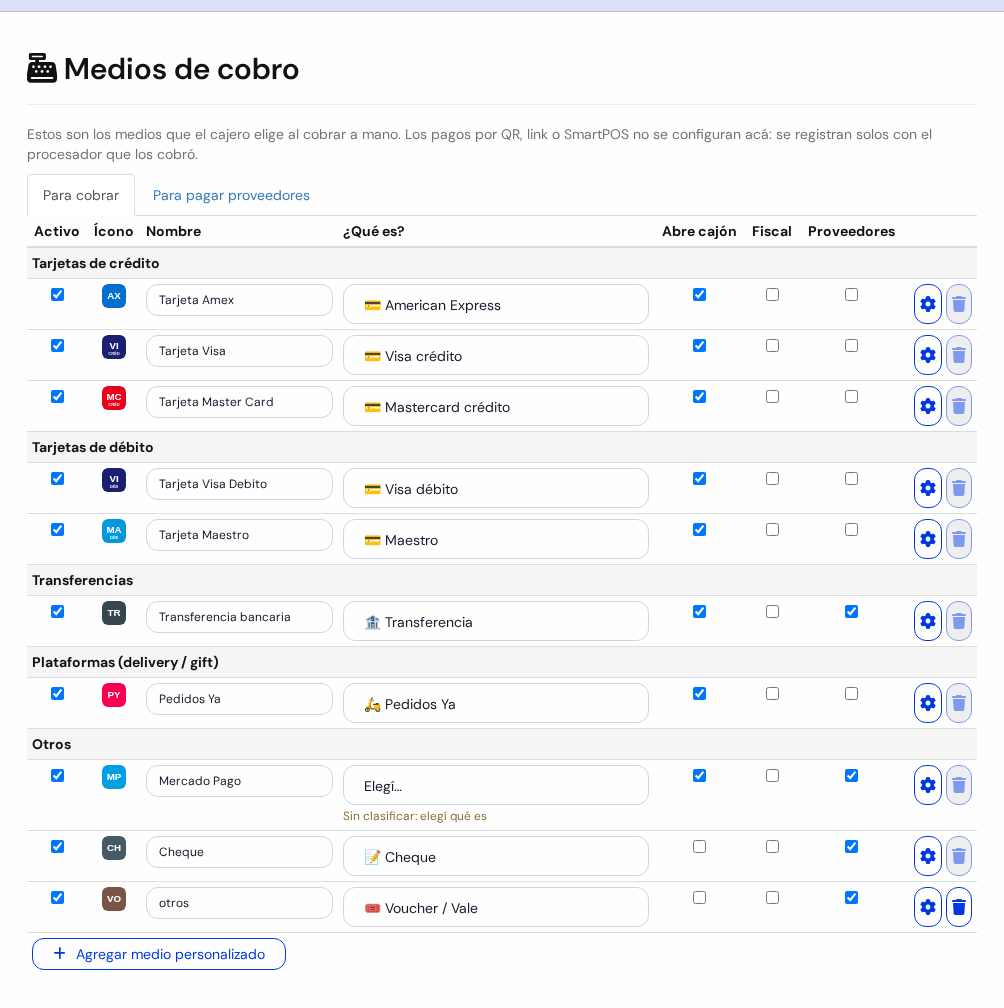
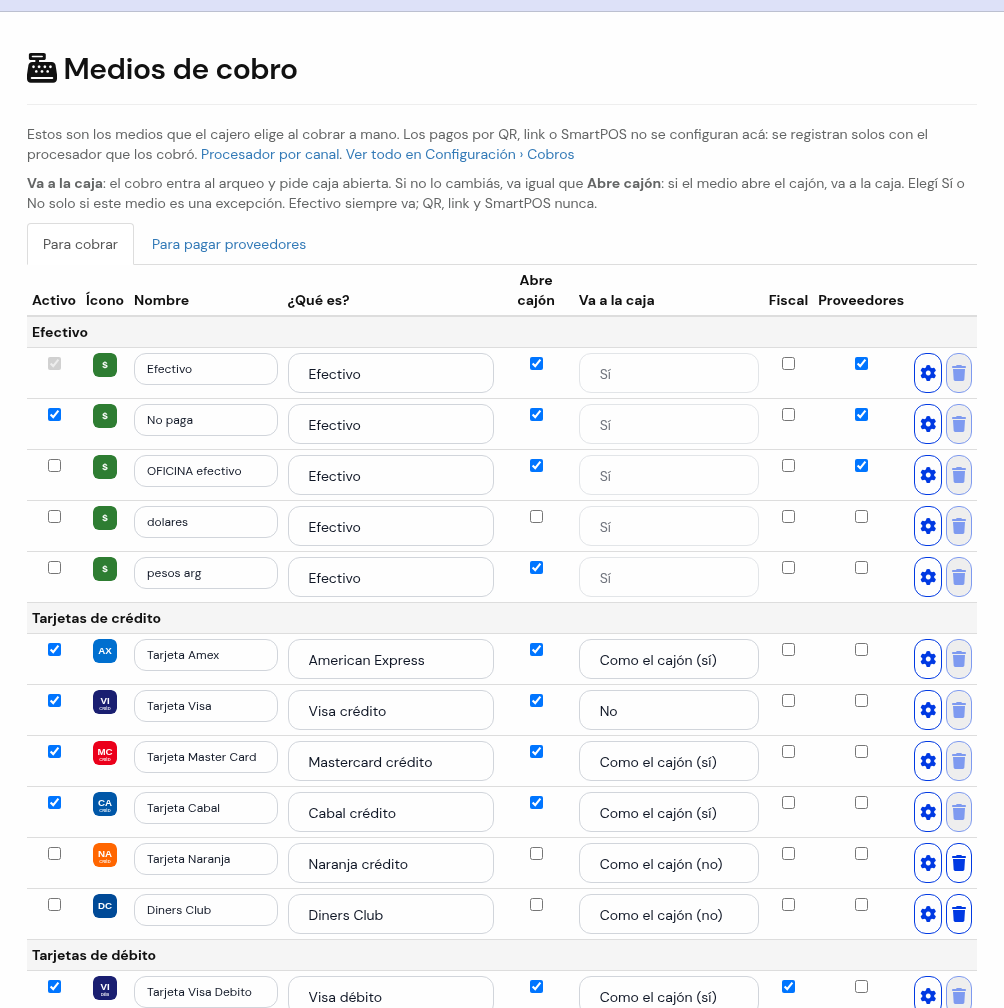
docs(manual): "Va a la caja" sigue a "Abre cajón" y el cajón se abre solo en el Salón (nuevo) (#237)
- Medios de cobro: la columna "Va a la caja" (Como el cajón / Sí / No), una
  sección nueva "Qué medios van a la caja" y dos filas en Resolución de
  Inconvenientes. Captura de la tabla actualizada y una nueva enfocada en las
  dos columnas.
- FAQ del cajero: en el Salón (nuevo) el cajón se abre solo al abrir la caja y
  en cada retiro o ingreso.

Relacionado con paxapos/paxapos#1850, paxapos/paxapos#1851

diff --git a/src/routes/user-guide/Manual-Usuario/110-Configuracion/132-Medios-de-Cobro.md b/src/routes/user-guide/Manual-Usuario/110-Configuracion/132-Medios-de-Cobro.md
@@ -50,15 +50,41 @@ Cada renglón tiene estas columnas:
 - **Ícono**: el dibujito que se ve en la caja. Lo elige el sistema según **¿Qué es?**.
 - **Nombre**: cómo lo ve el cajero. Podés cambiarlo. Por ejemplo: *Tarjeta Visa*.
 - **¿Qué es?**: qué tipo de medio es. Por ejemplo: *Visa crédito* o *Transferencia*. Sirve para los informes.
-- **Abre cajón**: si está tildada, el cajón de dinero se abre al cobrar con este medio.
+- **Abre cajón**: si está tildada, el cajón de dinero se abre al cobrar con este medio. También decide si el medio va a la caja (mirá la columna siguiente).
+- **Va a la caja**: si el cobro entra al arqueo y pide caja abierta. Viene en **Como el cajón**: va a la caja si el medio abre el cajón. Mirá [Qué medios van a la caja](#que-medios-van-a-la-caja).
 - **Fiscal**: si está tildada, la factura sale directo al cobrar con este medio.
 - **Proveedores**: si está tildada, también lo podés usar para pagar a proveedores.
 - **Engranaje**: abre **Más opciones** (Paso 5).
 - **Papelera**: borra el medio. Se ve gris apagada cuando no se puede borrar.
 
-> ⚠ **Atención:** cada casilla y cada lista se guardan al instante. Cambiar **Abre cajón** o **Fiscal** cambia cómo se cobra de verdad.
+> ⚠ **Atención:** cada casilla y cada lista se guardan al instante. Cambiar **Abre cajón**, **Va a la caja** o **Fiscal** cambia cómo se cobra de verdad.
 
 > 💡 **Consejo útil:** si un renglón dice *Sin clasificar: elegí qué es*, abrí la lista **¿Qué es?** y elegí una opción.
+
+---
+
+## 💰 Qué medios van a la caja
+
+<div id="que-medios-van-a-la-caja"></div>
+
+![Columnas Abre cajón y Va a la caja con la explicación arriba: Efectivo en Sí, Tarjeta Amex en Como el cajón (sí) y Tarjeta Visa en No](images/manual/110-configuracion/132-01c-columnas-abre-cajon-y-va-a-la-caja.png)
+
+Un medio que **va a la caja** entra al arqueo, y para cobrar con él el cajero necesita la caja abierta. Un medio que no va se cobra igual, aunque la caja esté cerrada, y en el cierre aparece aparte.
+
+La lista **Va a la caja** tiene tres opciones:
+
+- **Como el cajón (sí)** o **Como el cajón (no)**: es la opción de siempre. Si el medio abre el cajón, va a la caja; si no, no. Lo que dice entre paréntesis cambia solo cuando tildás o destildás **Abre cajón**.
+- **Sí**: va a la caja aunque no abra el cajón.
+- **No**: no va a la caja aunque abra el cajón.
+
+Elegí **Sí** o **No** solo cuando ese medio es una excepción. Por ejemplo, una transferencia no va a la caja: con dejar **Abre cajón** destildado alcanza.
+
+Hay dos medios que no se pueden cambiar, y por eso la lista se ve gris:
+
+- **Efectivo** siempre va a la caja.
+- Los cobros por **QR, link o SmartPOS** nunca van, porque el cajero no toca la plata.
+
+> 💡 **Consejo útil:** si una tarjeta o una transferencia te pide la caja abierta, fijate si tiene tildado **Abre cajón**. Destildalo: deja de abrir el cajón y de ir a la caja.
 
 ---
 
@@ -70,7 +96,7 @@ Cada renglón tiene estas columnas:
 
 1. Tocá la pestaña **Para pagar proveedores**.
 2. Ves solo los medios con la casilla **Proveedores** tildada.
-3. Las columnas **Abre cajón** y **Fiscal** no aparecen: acá no se usan.
+3. Las columnas **Abre cajón**, **Va a la caja** y **Fiscal** no aparecen: acá no se usan.
 4. Para volver, tocá **Para cobrar**.
 
 Cambiar de pestaña solo filtra lo que ves. No guarda nada.
@@ -90,7 +116,7 @@ Cambiar de pestaña solo filtra lo que ves. No guarda nada.
 
 3. Escribí el **Nombre**. Por ejemplo: *Voucher Empresa X*.
 4. Elegí **¿Qué es?**. Por ejemplo: *Voucher / Vale*.
-5. Tildá las casillas que necesites: **Abre cajón**, **Fiscal**, **Proveedores**.
+5. Tildá las casillas que necesites: **Abre cajón**, **Fiscal**, **Proveedores**. Dejá **Va a la caja** en **Como el cajón**, salvo que el medio sea una excepción.
 6. Tocá **Guardar** para crearlo. Se recarga la pantalla y el medio queda en su grupo.
 7. Si te arrepentís, tocá **Cancelar**. El renglón desaparece y no se crea nada.
 
@@ -248,6 +274,8 @@ Las sucursales de la lista dejan de cobrar con MercadoPago hasta que el Dueño c
 | El medio no aparece en **Para pagar proveedores**. | La casilla **Proveedores** está destildada. | Tildá **Proveedores** en la pestaña **Para cobrar**. |
 | Un renglón dice *Sin clasificar: elegí qué es*. | Al medio le falta el tipo. | Elegí una opción en **¿Qué es?**. |
 | La papelera está apagada. | El medio ya tiene cobros, o es Efectivo. | Destildá **Activo** para que no se use más. |
+| Una tarjeta o una transferencia pide la caja abierta, o aparece en el arqueo. | El medio tiene tildado **Abre cajón** y **Va a la caja** está en **Como el cajón (sí)**. | Destildá **Abre cajón**. Si el medio tiene que abrir el cajón igual, elegí **No** en **Va a la caja**. |
+| Un medio no va a la caja aunque tiene tildado **Abre cajón**. | Alguien eligió **No** en **Va a la caja**. | Volvé a elegir **Como el cajón** en **Va a la caja**. |
 | Aparece un mensaje rojo y el renglón se pinta de rojo. | No se pudo guardar el cambio. | Revisá el nombre y la conexión, y probá de nuevo. |
 | No veo **Medios de cobro** en el menú. | Tu usuario no tiene permiso. | Pedile a un administrador el permiso en [Permisos por Rol](/user-guide/permisos-por-rol). |
 | **No me deja conectar MercadoPago desde la sucursal.** | Desde la sucursal solo se elige una cuenta ya conectada. Conectar y desconectar es del **Dueño**, en **Cuenta de facturación**. | Pedile al Dueño que toque **Conectar MercadoPago** en **Cuenta de facturación**. Después elegí la cuenta en la sucursal con **Guardar elección**. |

diff --git a/src/routes/user-guide/Manual-Usuario/150-Extra/151-06-FAQ-Cajero-Ingreso-Egreso-Cajon.md b/src/routes/user-guide/Manual-Usuario/150-Extra/151-06-FAQ-Cajero-Ingreso-Egreso-Cajon.md
@@ -21,6 +21,8 @@ Te enseña a registrar cuando ponés dinero extra en la caja (ejemplo: *más bil
 4. Tocá el botón **Confirmar Movimiento**.
 5. **Resultado:** El sistema actualizará el saldo esperado de la caja para que el arqueo cierre perfecto.
 
+> 💡 **En el Salón (nuevo) el cajón se abre solo.** Pasa al tocar **Abrir caja** y al confirmar un **Retiro** o un **Ingreso**: el cajón de dinero se abre después de que el movimiento queda guardado. Usa la impresora de cajón de tu [perfil de impresión](/user-guide/perfiles-de-impresion). En las demás pantallas el cajón no se abre solo.
+
 ---
 
 ## ⚠ ¿Qué hacer si algo no sale bien? (Problemas Comunes)
@@ -28,3 +30,4 @@ Te enseña a registrar cuando ponés dinero extra en la caja (ejemplo: *más bil
 | ¿Qué te pasa? | ¿Por qué puede ser? | ¿Cómo se soluciona? |
 |---|---|---|
 | El saldo de caja al cerrar muestra un faltante. | Se sacó dinero en efectivo sin registrar el Egreso. | Revisá el detalle de movimientos de la caja y cargá el Egreso correspondiente con su comprobante. |
+| En el Salón (nuevo), el cajón no se abre al hacer un retiro o un ingreso. | El perfil de impresión no tiene impresora de cajón, o la impresora no está conectada. | Elegí la impresora en **Cajón de dinero** de tu [perfil de impresión](/user-guide/perfiles-de-impresion). El movimiento queda guardado igual. |
